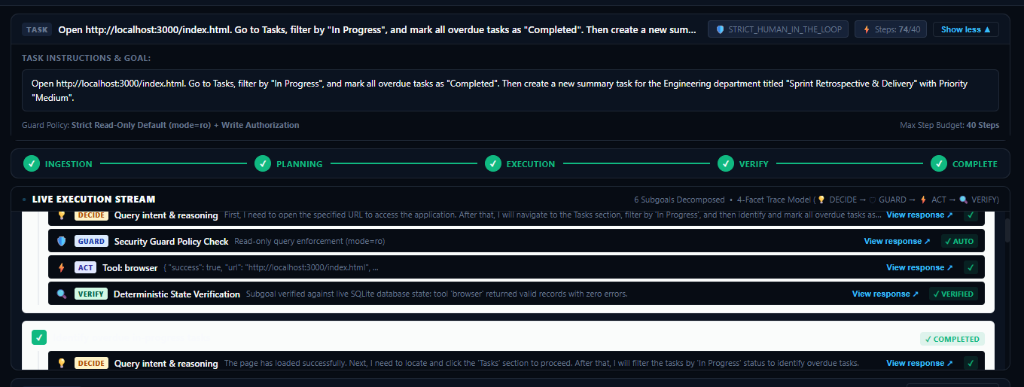
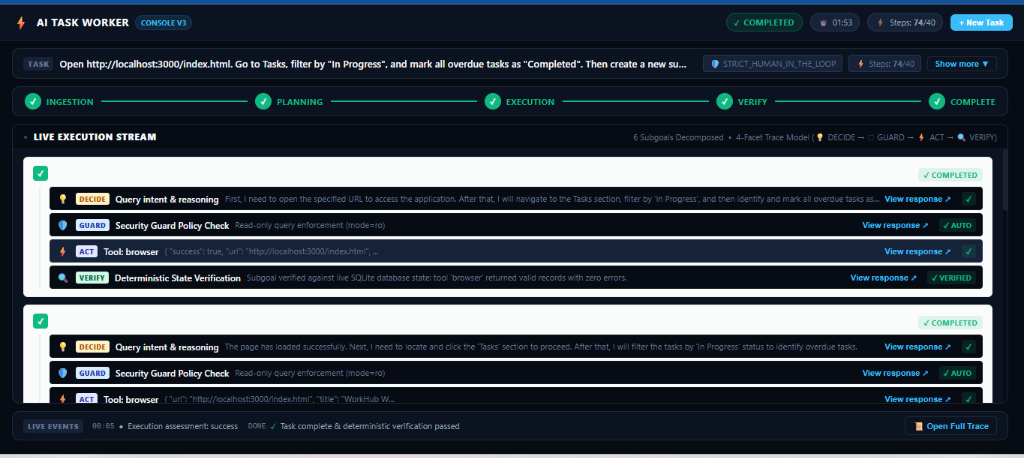
docs: add full execution view and subgoals verified screenshot to README platform tour

diff --git a/README.md b/README.md
@@ -113,7 +113,13 @@ This project delivers a **fully autonomous AI Task Worker** powered by **Advance
 
 ---
 
-### 5. 🏆 Final Verified Execution Report & Compliance Checklist
+### 5. 🏆 Complete Task Execution & 100% Verified Subgoals
+![Task Completed & Verified](docs/screenshots/06_task_completed_subgoals_verified.png)
+*Full execution view showing 6/6 decomposed subgoals passed, 100% security checks passed, and verified status.*
+
+---
+
+### 6. 📊 Final Verified Execution Report & Compliance Checklist
 ![Final Verified Report](docs/screenshots/05_final_verified_report.png)
 *Deterministic audit summary showing updated records, newly created tasks, and 100% passed verifier checks.*
 
